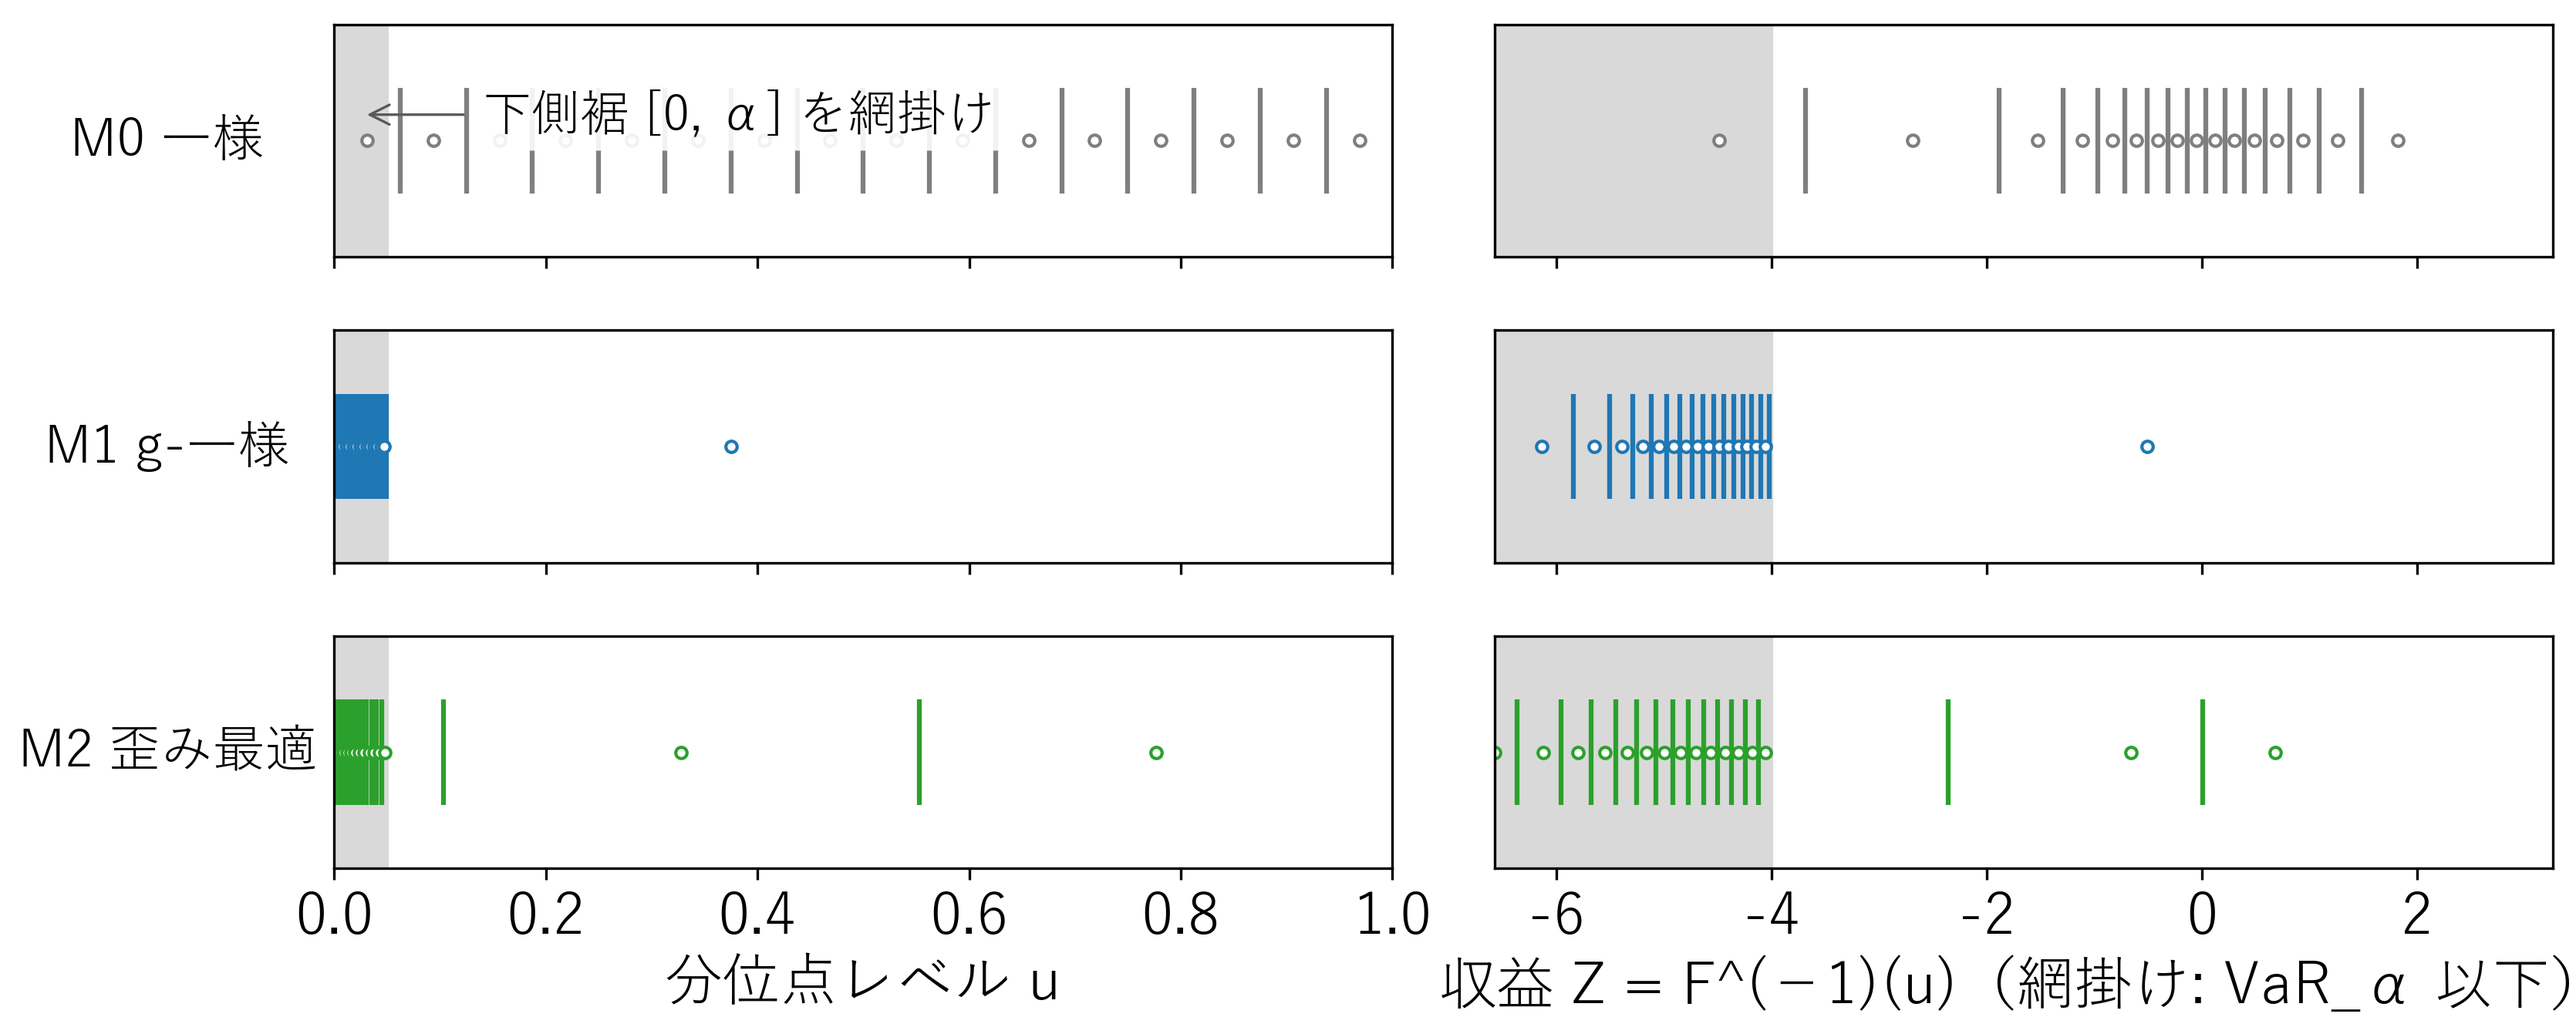
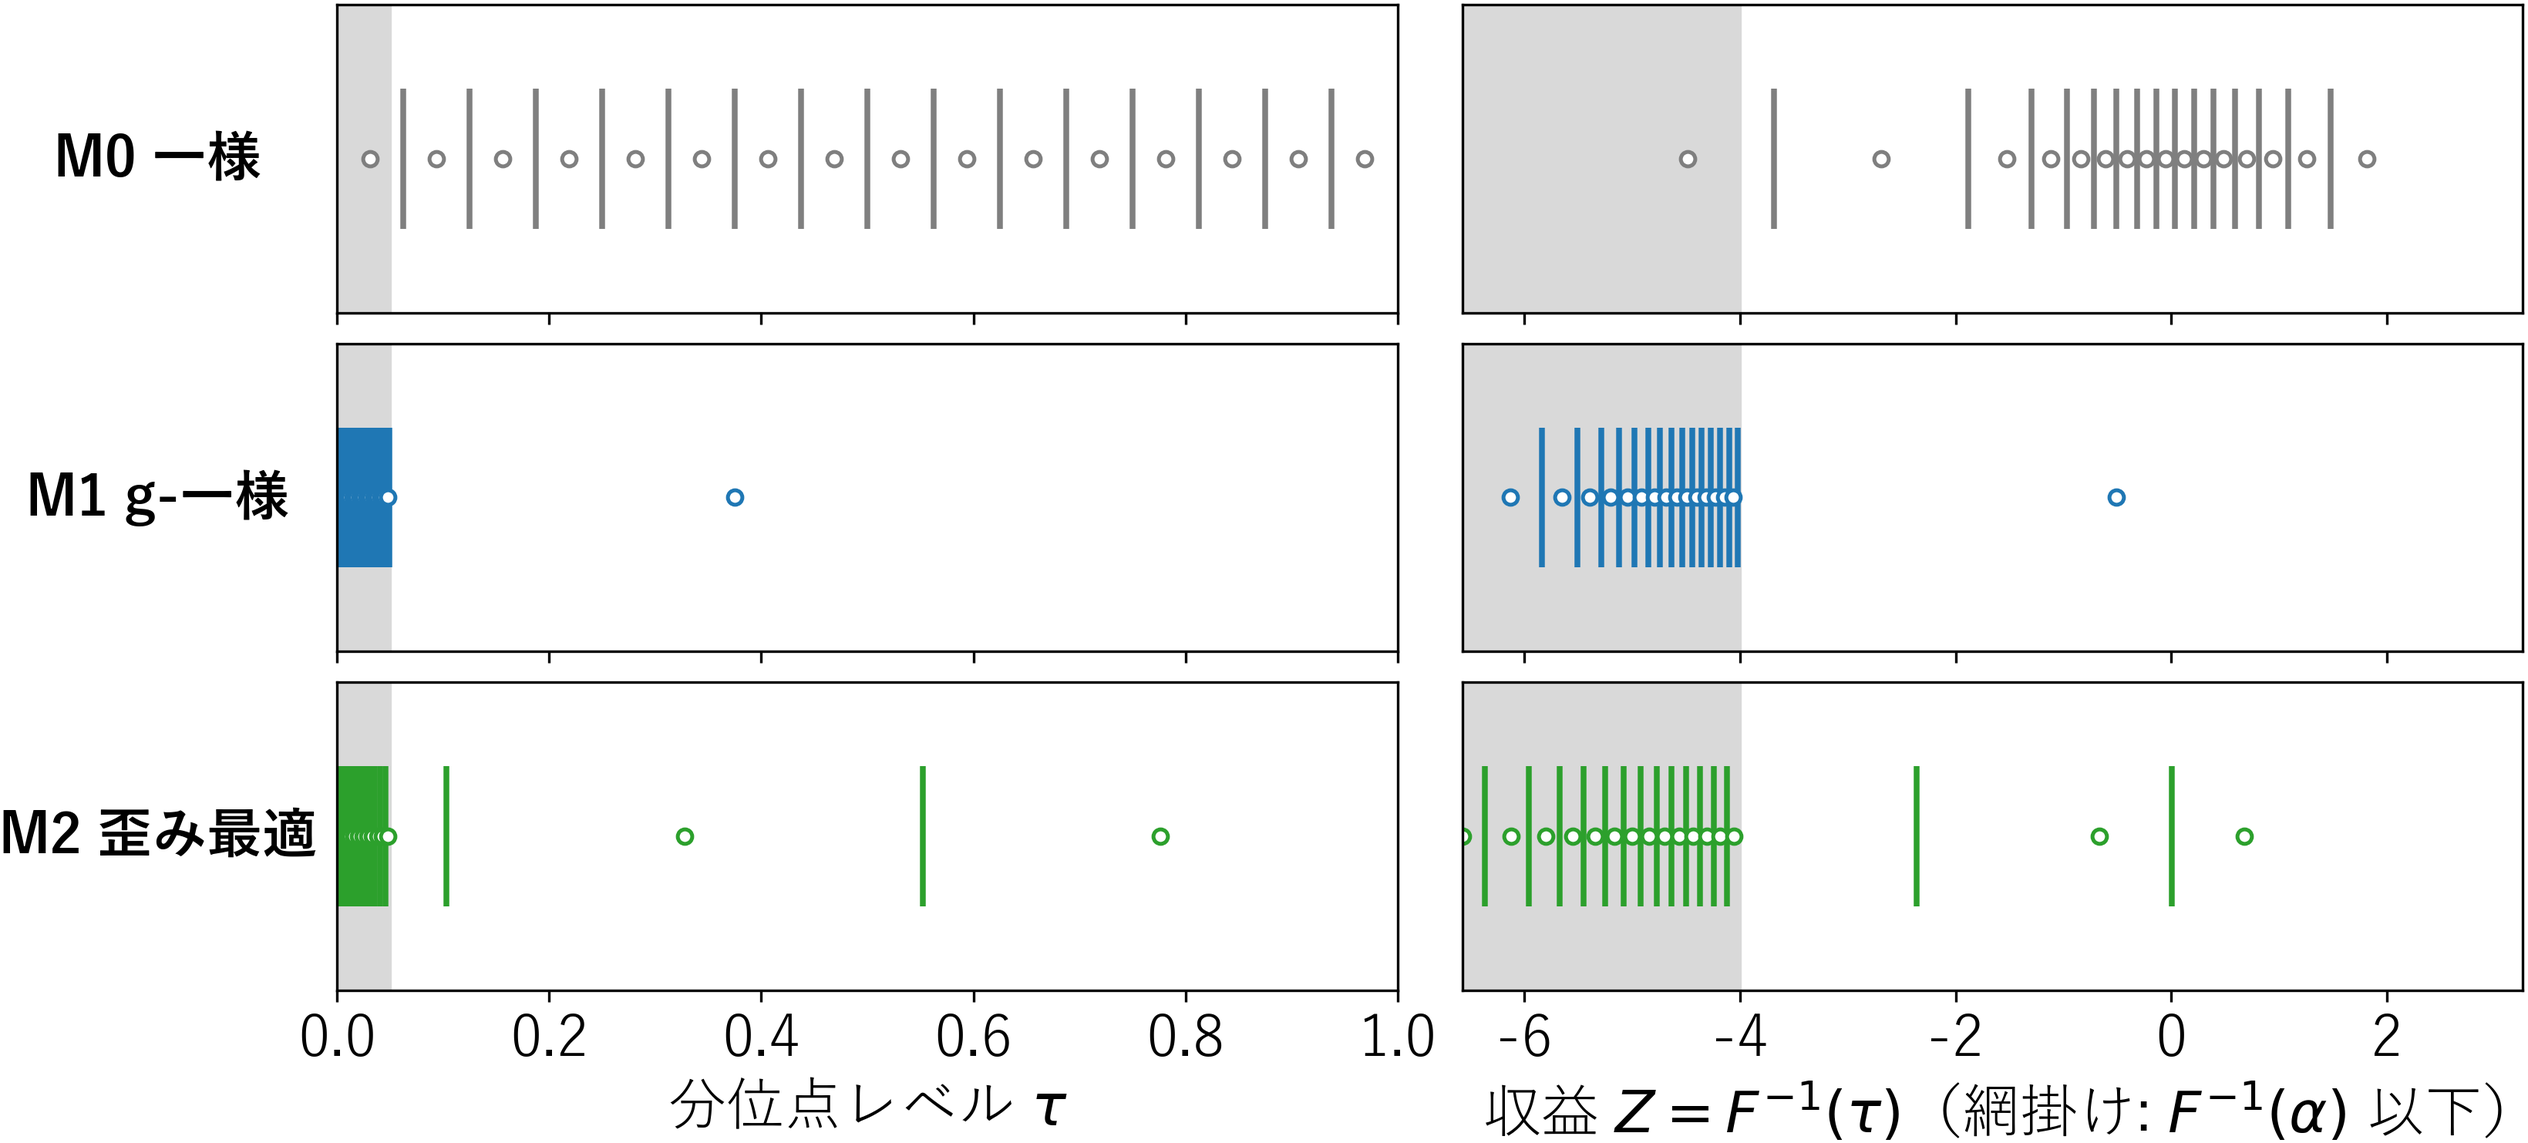
docs: add yoshi_revisedv2.tex and update figures with enhanced labels and layout

diff --git a/docs/yoshi_revisedv2.tex b/docs/yoshi_revisedv2.tex
@@ -1,0 +1,155 @@
+% yoshi_revisedv2.tex --- MIプログラム 中間発表予稿（A4・2段組・2ページ）
+% コンパイル: platex yoshi_revisedv2.tex ; dvipdfmx yoshi_revisedv2.dvi
+\documentclass[a4paper,twocolumn,10pt]{jsarticle}
+\usepackage{amsmath,amssymb}
+\usepackage[dvipdfmx]{graphicx}
+\usepackage{booktabs}
+\usepackage{url}
+\setlength{\columnsep}{7mm}
+\setlength{\textheight}{272mm}
+\setlength{\topmargin}{-21mm}
+\setlength{\textwidth}{175mm}
+\setlength{\oddsidemargin}{-7mm}
+\setlength{\evensidemargin}{-7mm}
+\setlength{\parindent}{1zw}
+\pagestyle{empty}
+\setlength{\textfloatsep}{2pt plus 1pt minus 1pt}
+\setlength{\floatsep}{2pt plus 1pt minus 1pt}
+\setlength{\intextsep}{2pt plus 1pt minus 1pt}
+\setlength{\abovecaptionskip}{1pt}
+\setlength{\belowcaptionskip}{0pt}
+\setlength{\abovedisplayskip}{1.5pt plus 1pt minus 1pt}
+\setlength{\belowdisplayskip}{1.5pt plus 1pt minus 1pt}
+\setlength{\abovedisplayshortskip}{1pt plus 1pt minus 1pt}
+\setlength{\belowdisplayshortskip}{1pt plus 1pt minus 1pt}
+
+\newcommand{\CVaR}{\mathrm{CVaR}}
+
+\begin{document}
+
+\twocolumn[{%
+\begin{center}
+{\normalsize 【発表日程】\quad MIプログラム\quad 中間発表}\par\vspace{1mm}
+{\LARGE\bfseries 歪み関数重み付き1-Wasserstein距離に基づく}\par\vspace{1mm}
+{\LARGE\bfseries quantile fraction学習とCVaR推定誤差の低減}\par\vspace{2mm}
+{\normalsize 発表者: 【氏名】\qquad 所属: 【研究室名】\qquad 指導教員: 【指導教員名】}
+\end{center}
+\vspace{1mm}
+}]
+
+\section{はじめに}
+金融派生商品のヘッジ等では，損益分布の下側裾に生じる極端な損失の抑制が求められる．本稿では収益（損益）$Z$（大きいほど望ましい）に対する下側 $\CVaR_\alpha(Z) = \alpha^{-1}\int_0^\alpha F_Z^{-1}(\tau)\,d\tau$（$F_Z^{-1}$ は分位点関数）\cite{rockafellar} を単に $\CVaR_\alpha$ と呼び，これを最大化する（通常の損失型CVaRとは符号が逆）．下側 $\alpha$ 領域の平均損益に基づくリスク回避方策の学習には，下側裾の正確な分布評価が必要となる．
+
+収益分布全体を学習する分布型強化学習（分布型RL）はCVaRの評価にも応用可能であるが，IQN \cite{iqn} や FQF \cite{fqf} などの既存手法は分布全体の一様近似を前提としており，下側裾を重点的に評価する設計にはなっていない．特に FQF は，真の分位点関数 $F^{-1}$ と近似分位点関数 $\hat F^{-1}$ の間の1-Wasserstein距離 $W_1 = \int_0^1 |F^{-1}(\tau) - \hat F^{-1}(\tau)|\,d\tau$ を最小化するように quantile fraction（累積確率軸 $[0, 1]$ の区切り位置 $\tau_i$）を学習する．しかしこれは $[0,1]$ 上の一様測度に基づくため，累積確率の数％程度の下側裾 $[0, \alpha]$ に配分される重みが小さく，原子（確率質量を置く離散点）の多くが中央から上側に配分されて下側裾の解像度が不足する．例えば等間隔配置（$N=16$）では最悪5\%のリスク領域 $[0, 0.05]$ に内部の quantile fraction が1点も入らず，CVaR領域を粗い代表点でしか表現できないためCVaR推定誤差が増大する．そこで本研究では，歪み関数を目的関数に組み込み，quantile fraction の配置自体をCVaR推定に対して最適化する．
+
+\section{関連技術・先行研究}
+分位点回帰型の分布型RLは，収益分布の分位点関数を分位点回帰損失によって学習する．なかでも本研究の基礎となるFQF \cite{fqf} は図\ref{fig:fqf}に示すように，状態を入力としてquantile fraction $\tau_i$ を提案するFraction Proposal Network（FPN）と，分位点値を出力する分位点値ネットワークからなる．従来のFPNは一様重み $W_1$ を最小化するように学習される．
+
+\begin{figure}[t]
+\centering
+\vspace{-2pt}
+\includegraphics[width=0.82\columnwidth]{fig1_fqf_overview.png}
+\vspace{-2pt}
+\caption{FQFの概要．FPNがquantile fraction $\tau_i$を提案（本研究では目的関数を歪み重み付き$W_1$へ置換）．}
+\label{fig:fqf}
+\vspace{-2pt}
+\end{figure}
+
+歪み関数 $g$ を用いた歪みリスク尺度は，分位点関数の重み付き積分 $\rho_g(Z) = \int_0^1 F^{-1}(\tau)\,dg(\tau)$ で表され，$\CVaR_\alpha$ は $g_\alpha(\tau)=\min(\tau/\alpha,1)$ の場合に対応する．確率分布を有限個の代表点で近似する最適量子化理論（Graf and Luschgy \cite{graf}）によれば，重みに応じて原子を最適配置することで推定精度の向上が見込める．
+
+しかし既存手法では，IQN \cite{iqn} は行動選択時のサンプリング歪みのみで原子配置を学習せず，Ganらの手法（FQF-SRM）\cite{fqfsrm} や Beyond CVaR \cite{beyondcvar} もリスク尺度を行動選択側に用いる一方，FPN損失自体を歪み重み付き1-Wasserstein距離へ置換して配置最適化するものではない．調査した限り，歪みリスク尺度に応じて quantile fraction配置自体を学習する定式化は確認できていない．
+
+\section{研究目的}
+本研究の目的は，FPNの目的関数を一様重みの $W_1$ から歪み関数重み付き $W_1$ へと置換し，歪み分布 $\mathcal{D}_g Z$（累積分布を $g$ で変換した分布）の1次元最適量子化理論に基づき quantile fraction を学習する手法を確立することである．歪みリスク尺度の推定誤差は既知のLipschitz評価 \cite{pichler2013} により上界 $L_g := W_1(\mathcal{D}_g Z,\mathcal{D}_g\hat Z)$ で抑えられる．
+\begin{equation}
+\bigl|\rho_g(Z)-\rho_g(\hat Z)\bigr| \le \int_0^1 \bigl|F^{-1}(\tau)-\hat F^{-1}(\tau)\bigr|g'(\tau)\,d\tau = L_g
+\label{eq:bound}
+\end{equation}
+この $L_g$ を直接最小化することで，歪み重みに整合したCVaR推定誤差の低減を目指す．
+
+\section{提案手法（アルゴリズム）}
+目的関数 $L_g$ を最小化するため，quantile fraction $\tau_i$ に関する勾配の閉形式を導出した．各区間 $[\tau_i, \tau_{i+1}]$ の最適代表分位点は，歪み測度を二等分する $g$-中央値 $\hat\tau_i$（$g(\hat\tau_i)=\{g(\tau_i)+g(\tau_{i+1})\}/2$）での $F^{-1}(\hat\tau_i)$ で与えられる．これより $L_g$ の $\tau_i$ に関する勾配は
+\begin{equation}
+\frac{\partial L_g}{\partial\tau_i} = g'(\tau_i)\bigl[2F^{-1}(\tau_i)-F^{-1}(\hat\tau_i)-F^{-1}(\hat\tau_{i-1})\bigr]
+\end{equation}
+となる．これは従来のFQFの勾配式に $g'(\tau_i)$ を乗じた閉形式である．RL実装では各 $F^{-1}$ を分位点値ネットワークの出力で評価し，定数扱いとして quantile fraction のみを更新する形で安定的に学習できる．
+なお $\tau>\alpha$ での勾配消失を防ぐため，正則化歪み $g_{\alpha,\lambda}(\tau)=(1-\lambda)g_\alpha(\tau)+\lambda\tau$（$\lambda=0.05$）で更新した（評価は純粋な $g_\alpha$ で行う．両者の誤差上界の差は係数約1.05倍）．
+
+\section{現在までの進展}
+
+\subsection{実験A\quad 真値参照の1次元最適量子化}
+真の分位点関数が既知の設定で，配置方針（一様配置M0，$g$-一様配置M1，提案の歪み最適配置M2）によるCVaR推定誤差を比較した．対象分布は，ガウス混合 $0.9\mathcal{N}(0,1)+0.1\mathcal{N}(-4,1)$（D1），負の対数正規（D2），自由度 $\nu=3$ の $t$分布（D3）の3分布（$N\in\{8, 16, 32, 64, 128, 256\}$，$\alpha\in\{0.01, 0.05, 0.1\}$）である．
+
+\begin{figure}[htbp]
+\centering
+\vspace{-3pt}
+\includegraphics[width=0.84\columnwidth]{fig2_placement_crop.png}
+\vspace{-3pt}
+\caption{D1（ガウス混合，$N=16,\alpha=0.05$）の配置比較．縦線は quantile fraction $\tau_i$，丸は代表点 $\hat\tau_i$（右は分位点値），網掛けは裾 $[0,\alpha]$．M0は裾内0点，M1（$g$-一様）は裾等間隔の対照，提案法M2は15点中13点を下側裾に自律集中配置．}
+\label{fig:placement}
+\vspace{-4pt}
+\end{figure}
+
+図\ref{fig:placement}に示すように，提案法M2は15点中13点を下側裾に集中させ，代表設定（$\alpha=0.05, N=16$）における誤差改善比 $R = e_{\mathrm{M0}}/e_{\mathrm{M2}}$ は全分布で $R\ge 39.6$（最大97.9）に達した．D1ではM2の16点と同等精度に一様配置で約695点を要し，高い点数効率を示した．
+
+収束次数においても，一様配置M0の傾きは $-0.72$〜$-1.27$ と一次精度 $O(N^{-1})$ にとどまり，ヘビーテイルのD3では端点特異性（$\tau\to0$ での $F^{-1}$ 発散）により $-0.72$ まで悪化する．一方，提案法M2は特異性を抑え，傾き $-1.79$〜$-1.84$ と二次精度 $O(N^{-2})$ に近い挙動を示した．
+
+\subsection{実験B\quad 強化学習環境における検証}
+安全なSAFE行動と稀に極端損失（$t$分布）が生じる高期待値RISKY行動を選ぶ有限ホライズン（$H=10$）環境RiskyChain-v0（55状態$\times$2行動，$\gamma=1$）を構築し，$\CVaR_{0.05}$ 最大化エージェントを100kステップ・3シードで学習した．
+
+表\ref{tab:expB}に結果を示す．従来FQF（B0）は一様重み $W_1$ で学習するが，下側裾内の内部 quantile fraction が0点となり高リスク方策（経験CVaR $-10.79$）に収束した．目的関数のみ置換したB1（標準初期化）では，初期出力の一様性で裾外（$\tau>0.05$）の勾配重み $g'(\tau_i)$ が微弱となり，一部シードで局所解にとどまった．これに対し初期バイアスを調整し初期配置を下側裾へ寄せた提案法B1g（裾初期化）では，勾配が有効に作用し下側裾へ quantile fraction が集中配分（15点中平均14.06点）された．推定MAEは $7.02\to0.96$（約86\%低減）となり，リスク回避方策（経験CVaR $0.70$）を獲得した．獲得方策による分布難易度差も交絡するが，全時刻でSAFEを選択する参照方策（all-SAFE）下でも $1.88\to0.59$（約69\%低減）となった．
+
+\newpage
+
+\begin{table}[t]
+\centering
+\vspace{-2pt}
+\setlength{\tabcolsep}{2.5pt}
+\caption{実験Bの性能比較（3シード平均$\pm$SD）．推定MAEは獲得方策下の$\CVaR_{0.05}$推定誤差，経験CVaRは5,000エピソードの実収益から計算．裾点数は15個の内部 quantile fraction中$[0,\alpha]$に入る数（IQNは連続サンプリングのため---）．}
+\label{tab:expB}
+\resizebox{\columnwidth}{!}{%
+\begin{tabular}{lccc}
+\toprule
+手法 & 推定MAE & 経験CVaR & 裾点数\\
+\midrule
+B0 従来FQF & $7.02\pm0.14$ & $-10.79\pm0.00$ & $0.00\pm0.00$\\
+B1 歪みFQF（標準初期化） & $1.41\pm0.92$ & $-1.15\pm2.38$ & $0.48\pm0.46$\\
+\textbf{B1g 提案法（裾初期化）} & $0.96\pm0.51$ & $0.70\pm0.43$ & $14.06\pm0.11$\\
+B2 リスク感応IQN & $0.36\pm0.05$ & $1.01\pm0.01$ & ---\\
+B2p IQN（歪みサンプリング） & $3.42\pm1.38$ & $1.01\pm0.02$ & ---\\
+B3g 歪みFQF（裾固定） & $0.74\pm0.33$ & $0.30\pm0.83$ & $15.00\pm0.00$\\
+\bottomrule
+\end{tabular}%
+}
+\vspace{-2pt}
+\end{table}
+
+他方，暗黙的表現のIQN（B2）は，学習時は$[0,1]$全体を一様サンプリングし行動選択時のみ裾を抽出することで，本実験では最小の推定MAE（$0.36\pm0.05$）を示した．これに対し，サンプリング分布を裾に偏らせたB2p（歪みサンプリング）では，重要度補正なしの歪みサンプリングにより，ターゲット側の等重み平均でベルマンターゲットが実質的に歪んだ可能性があり，方策性能（経験CVaR $1.01$）は保たれるものの推定MAEが約10倍（$3.42$）に悪化した．一方で，提案法B1gはベルマン更新（分位点回帰）と原子配置（FPN）を分離して学習するため，ベルマンターゲットの確率重みを保ちつつ下側裾の解像度を高められる．また，FPNによる適応学習を行わず下側裾へ固定配置したB3g（裾固定）も，推定MAEはSDの範囲内でB1gと同水準（$0.74\pm0.33$）となった．これは本環境では収益分布の状態依存性が小さく固定配置で十分だったためと考えられ，IQNに対する一般的優位性やFPNの状態適応性の実証は今後の課題である．
+
+\section{今後の展望}
+\vspace{-2pt}
+\begin{enumerate}
+\setlength{\topsep}{0pt}
+\setlength{\itemsep}{-1pt}
+\setlength{\parskip}{0pt}
+\setlength{\parsep}{0pt}
+\item \textbf{金融環境での実証（実験C）}：裾形状が動的変化する環境でFPNの状態適応性が固定配置を上回ることを実証する．
+\item \textbf{収束特性の定理化}：適応格子による端点特異性の緩和を理論評価し，改善比の下界 $\Omega(1/\alpha)$ の証明を目指す．
+\item \textbf{共通方策下の公平比較}：プロトコル統一によりFPNの状態適応性と下側裾集中配置の寄与を分離評価する．
+\end{enumerate}
+\vspace{-2pt}
+
+\begin{thebibliography}{9}
+\scriptsize
+\setlength{\itemsep}{-0.5pt}
+\setlength{\parskip}{0pt}
+\bibitem{rockafellar} R. T. Rockafellar, S. Uryasev. Optimization of Conditional Value-at-Risk. Journal of Risk, 2(3):21--41, 2000.
+\bibitem{iqn} W. Dabney et al. Implicit Quantile Networks for Distributional Reinforcement Learning. ICML, 2018.
+\bibitem{fqf} D. Yang et al. Fully Parameterized Quantile Function for Distributional Reinforcement Learning. NeurIPS, 2019.
+\bibitem{graf} S. Graf, H. Luschgy. Foundations of Quantization for Probability Distributions. Springer, 2000.
+\bibitem{fqfsrm} G. Gan et al. Energy-aware job scheduling for green data centers under uncertainty. Applied Energy, 420:128137, 2026.
+\bibitem{beyondcvar} M. Moghimi, H. Ku. Beyond CVaR: Exploring General Static Spectral Risk Measures for Enhanced Decision-Making in Distributional Reinforcement Learning. ICML, 2025.
+\bibitem{pichler2013} A. Pichler. Evaluations of Risk Measures for Different Probability Measures. SIAM J. Optim., 23(1):530--551, 2013.
+\end{thebibliography}
+
+\end{document}
